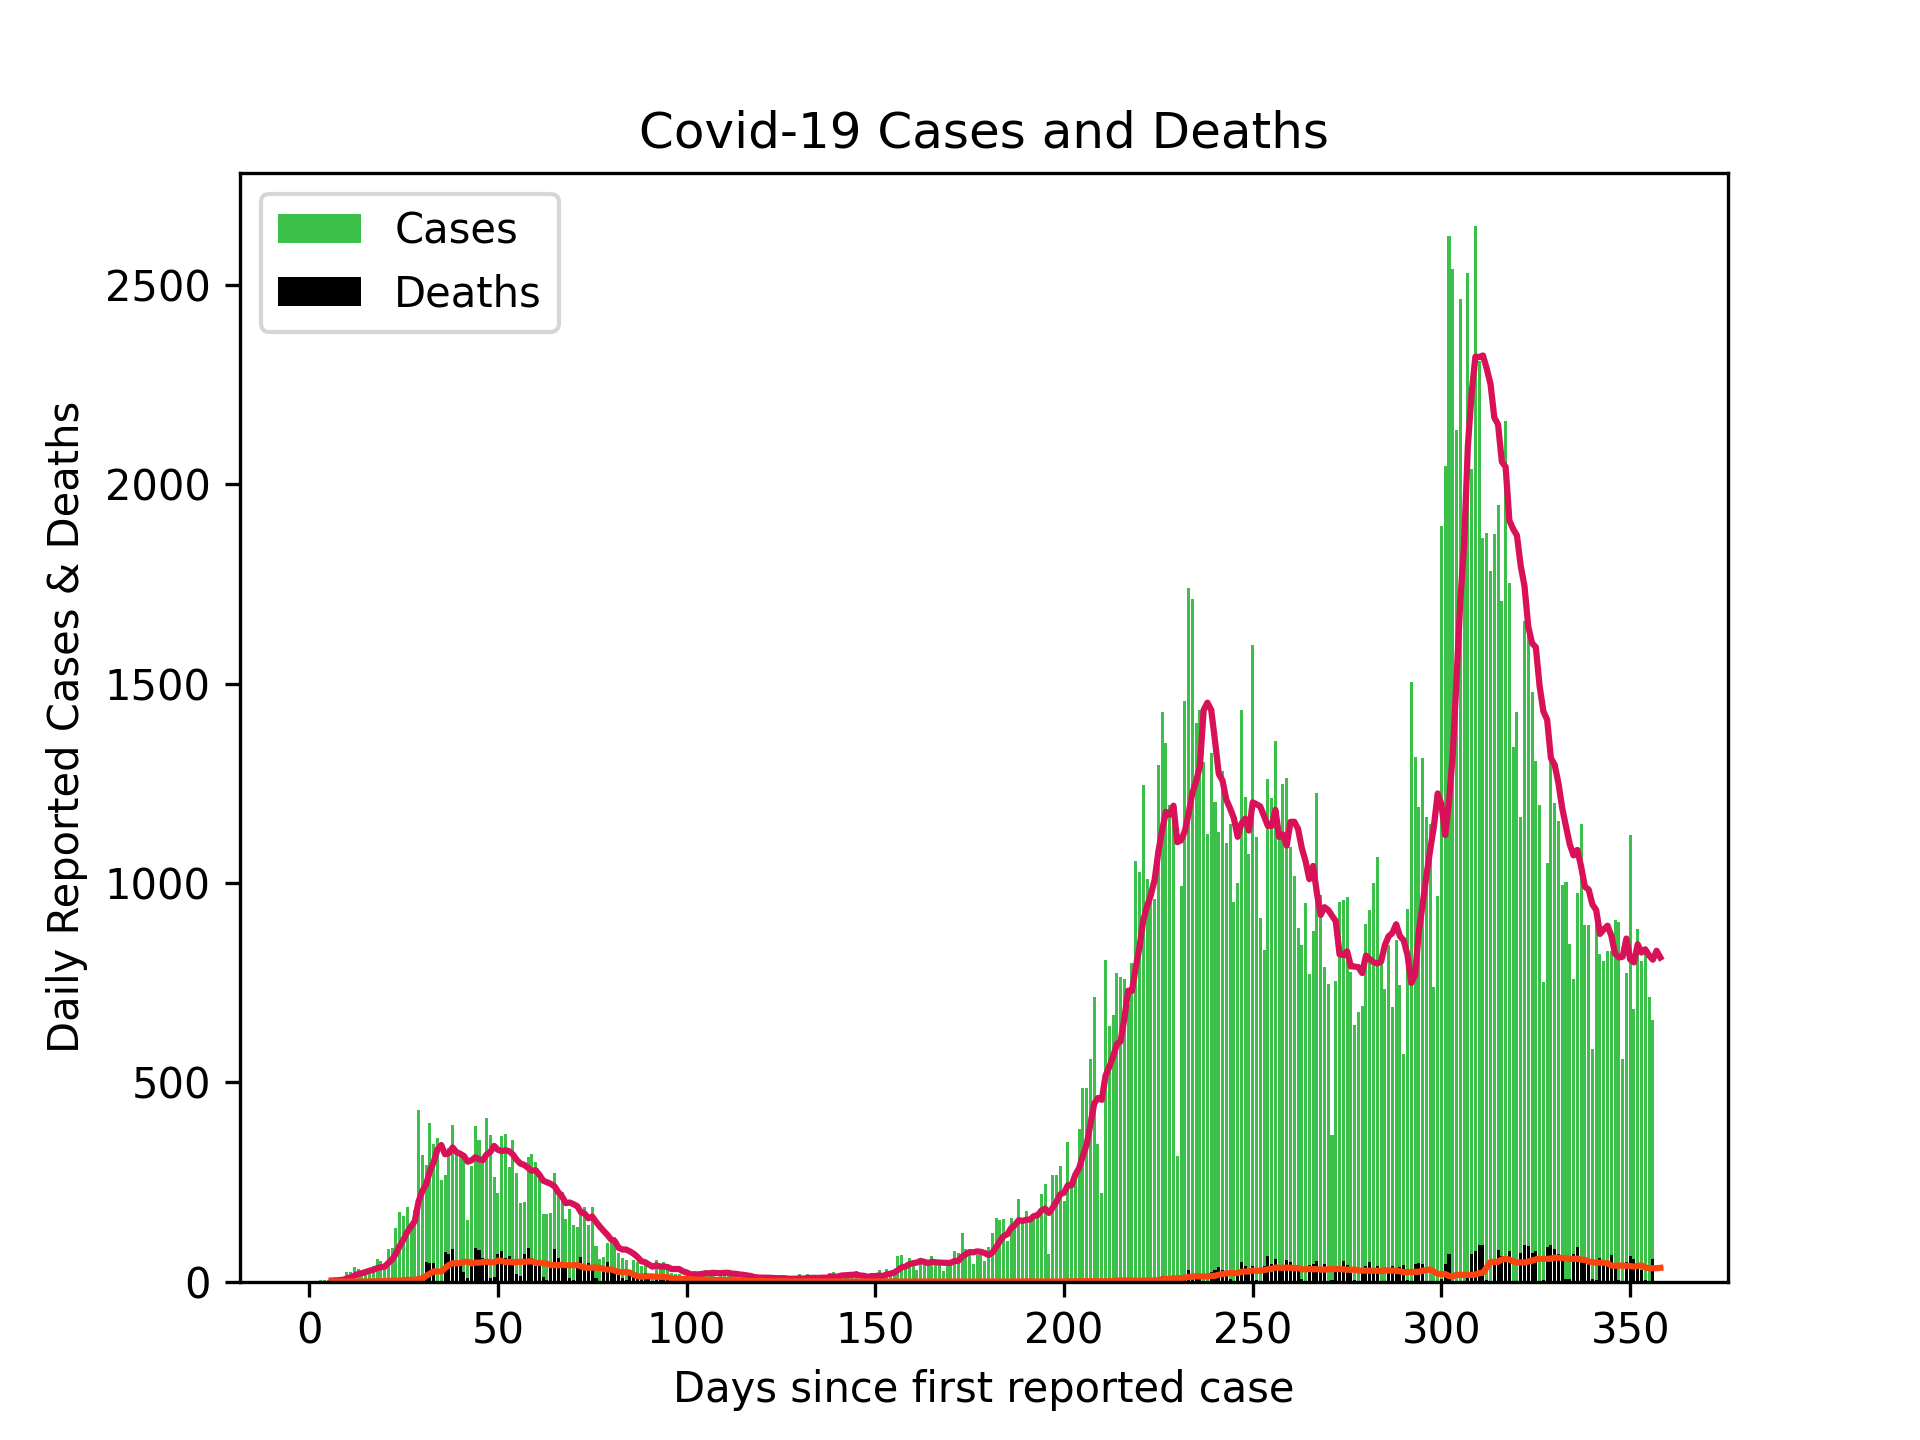
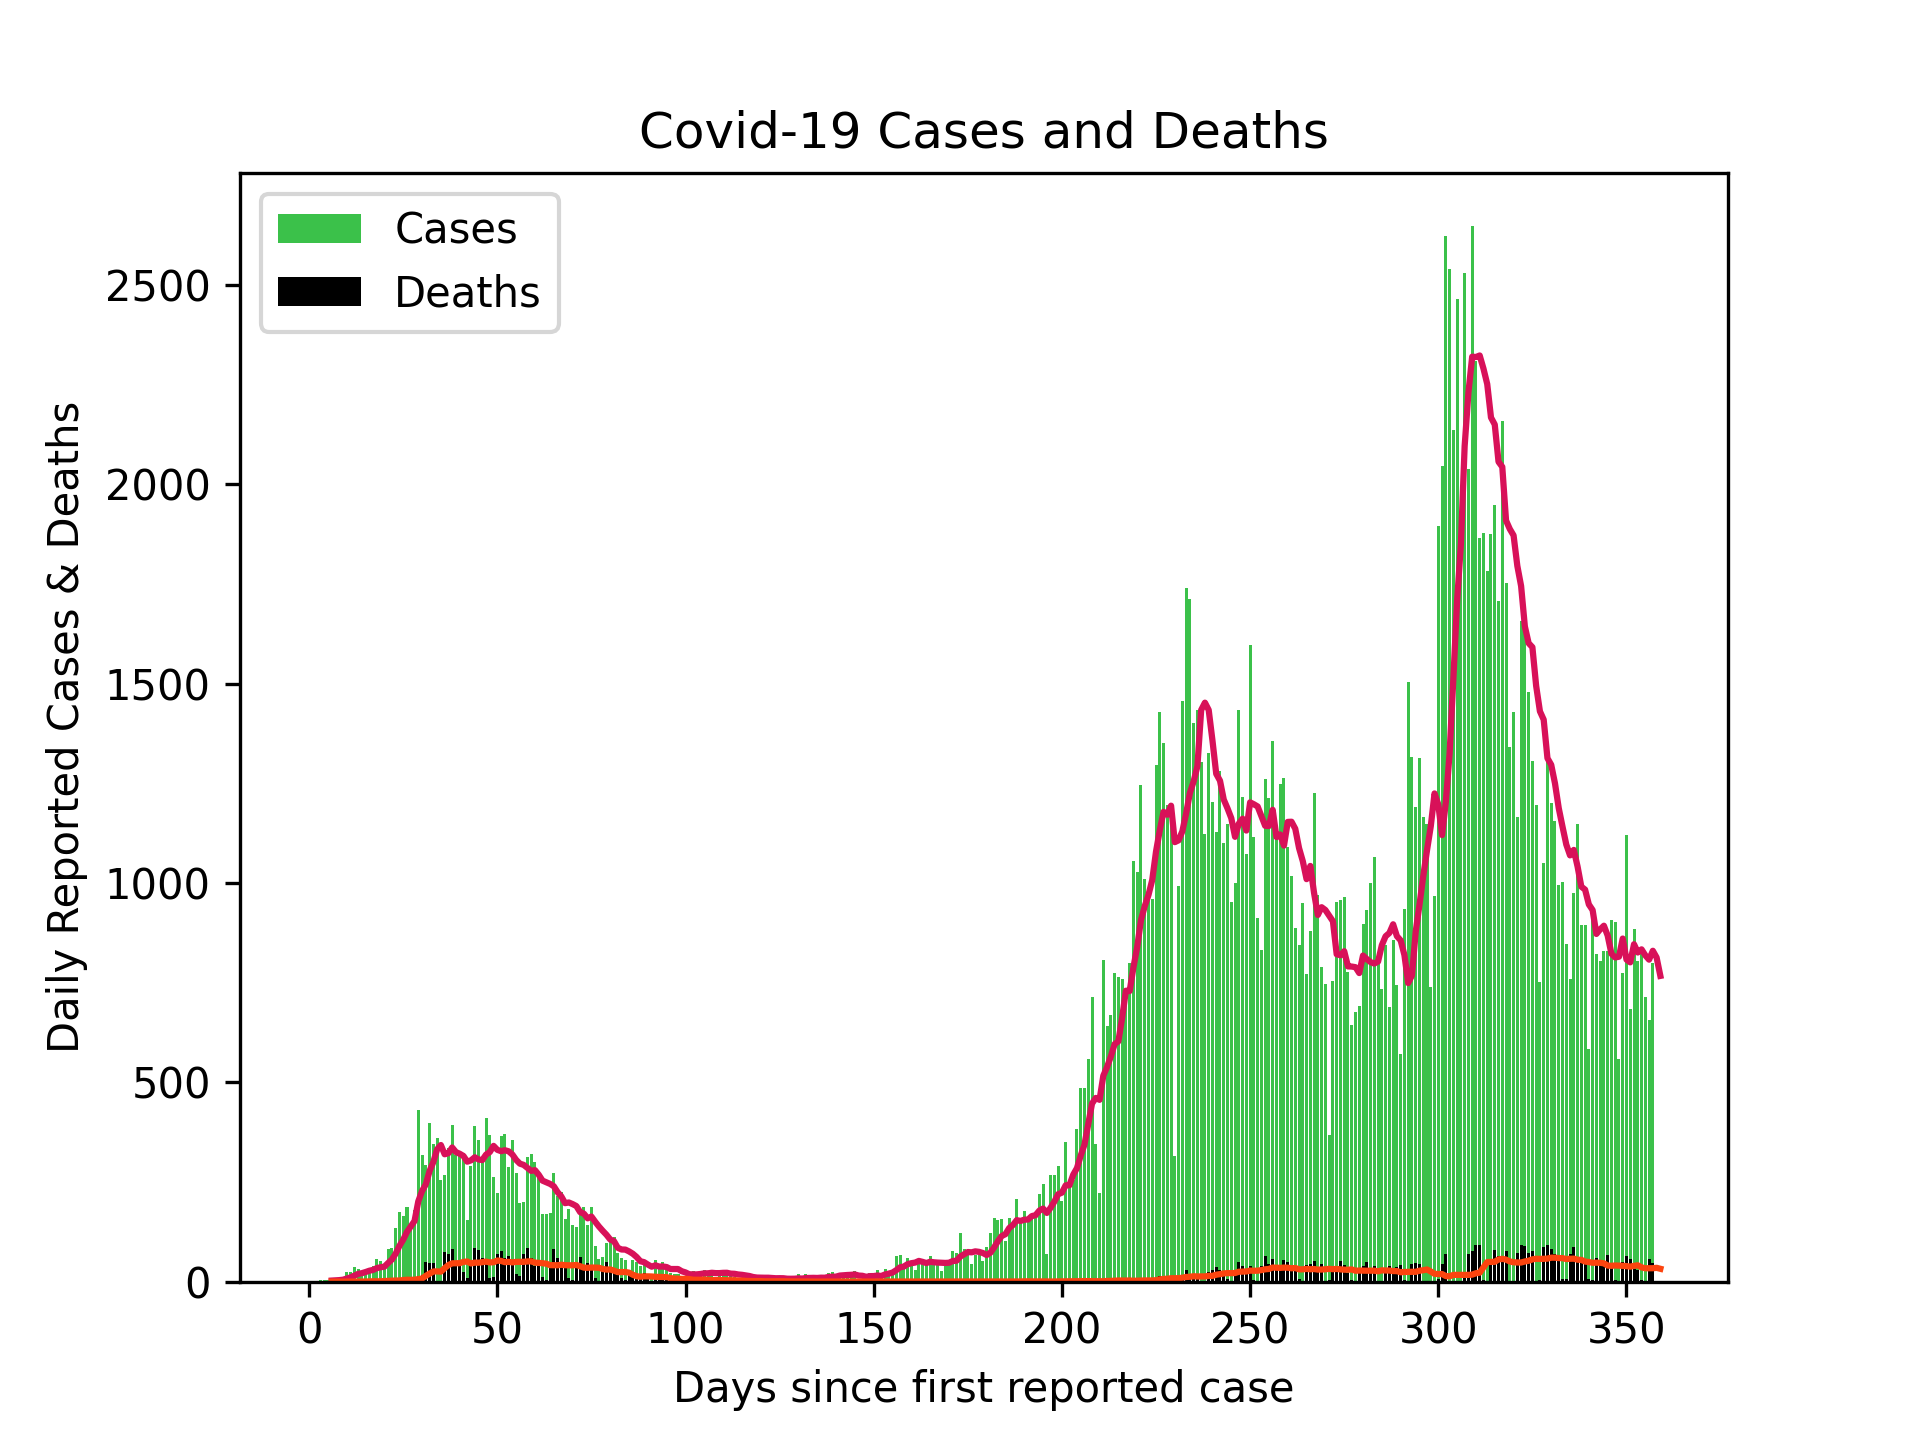
Updated Scottish cases 24/02/21

diff --git a/README.md b/README.md
@@ -1,4 +1,4 @@
-# Scottish Cases 23/02/21
+# Scottish Cases 24/02/21
 
 ![alt](scottish_cases.png)
 
